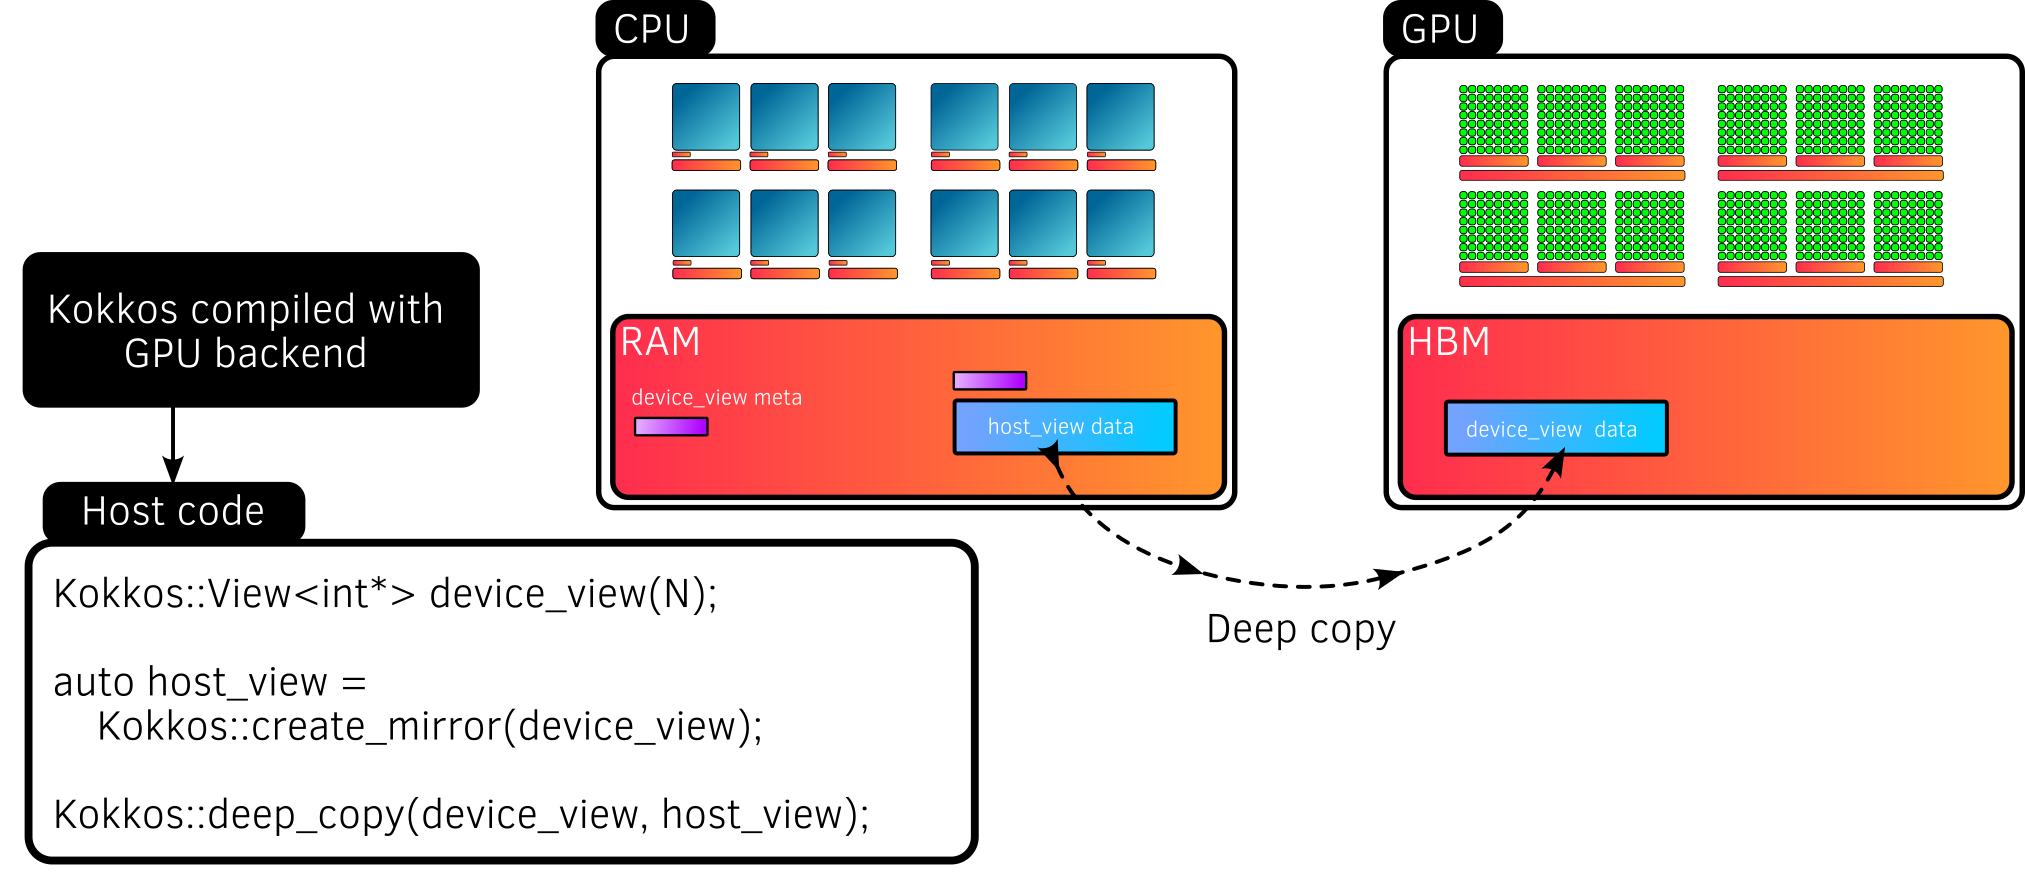
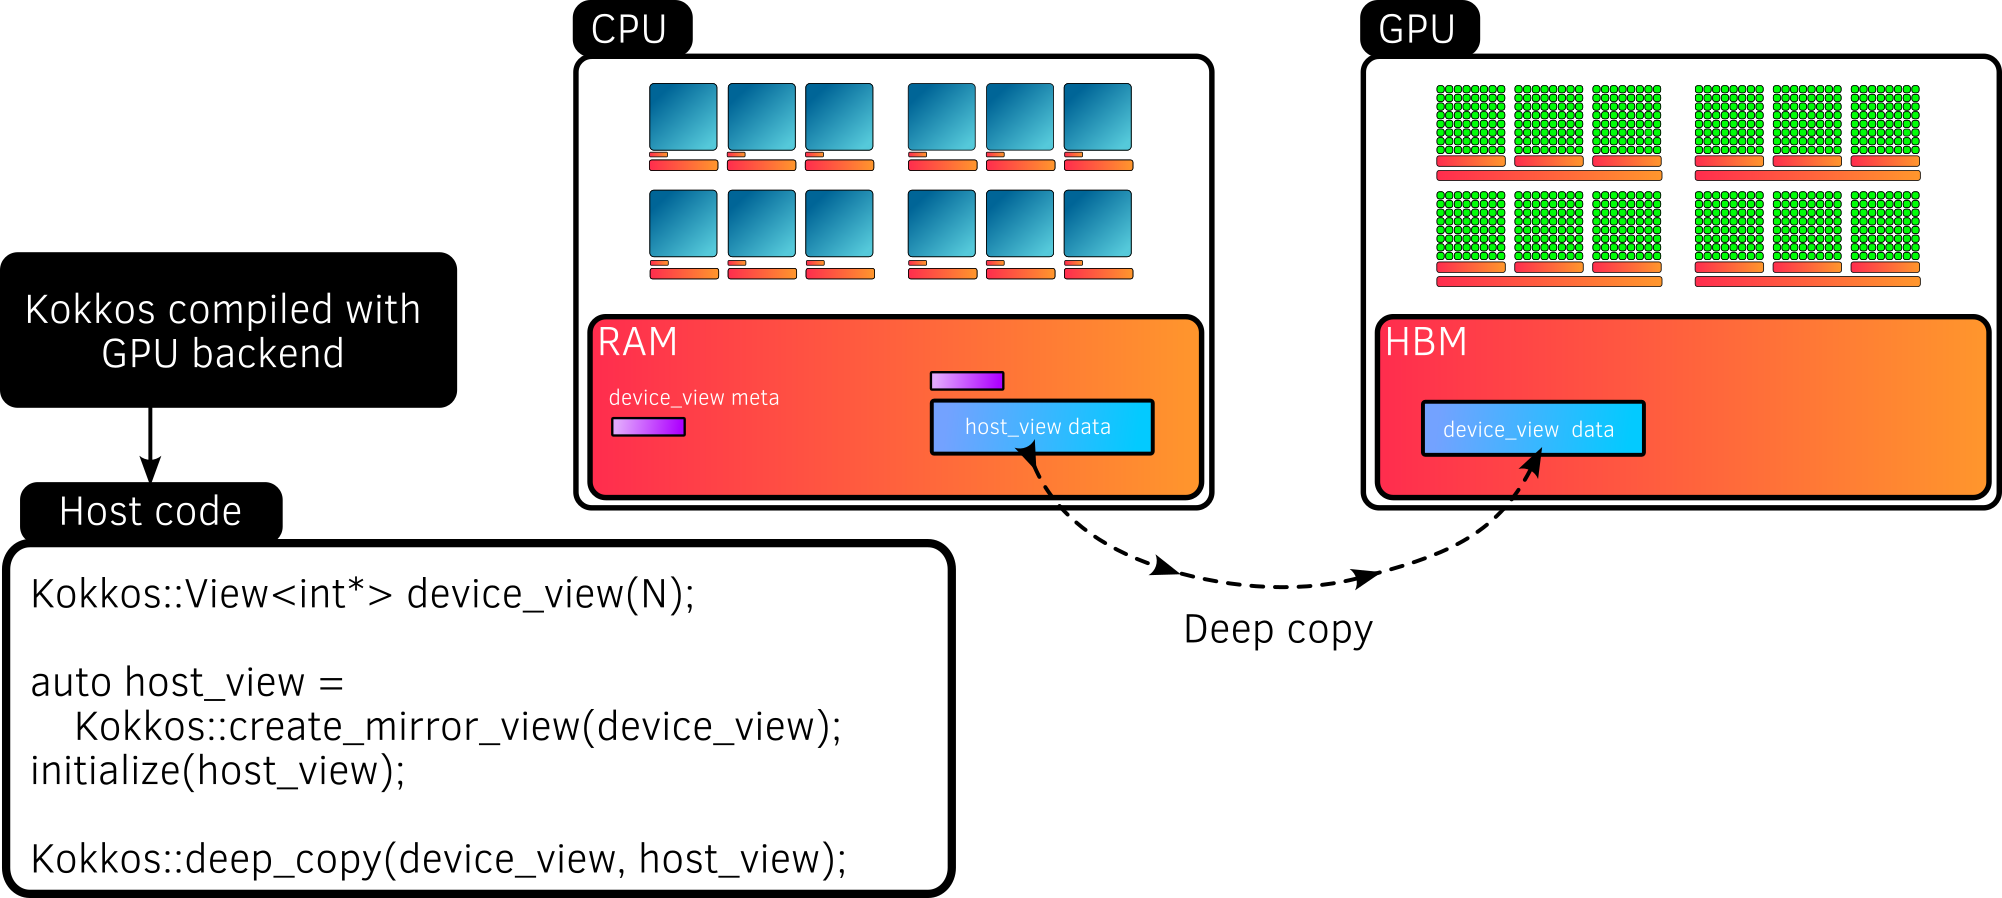
Typo + reorder some points

diff --git a/courses/01_beginners/main.tex b/courses/01_beginners/main.tex
@@ -836,8 +836,8 @@
         \item Why is it important to have an abstracted data container?
         \begin{itemize}
             \item No need to allocate or deallocate memory by hand
-            \item Vendor-specific memory allocation is hidden
             \item Unified semantic and portable memory management (CPU and GPU)
+            \item Vendor-specific memory allocation is hidden
             \item Advanced capabilities (abstracted layout, subarray, multidimensionality, etc.)
             \item Safety, through runtime or compile time checks
         \end{itemize}
@@ -863,6 +863,9 @@
 
                 Kokkos::View<double*[10]>
                     view3("static and dynamic size", 10);
+
+                Kokkos::View<double***[10]>
+                    view4("four dimensions", 10, 10, 10);
             \end{minted}
         \end{column}
         \begin{column}{0.4\linewidth}
@@ -882,7 +885,7 @@
 
 % _____________________________________________________________________________
 
-\begin{frame}[fragile]{Creating a View}
+\begin{frame}[fragile]{Creating a View (2)}
     \begin{columns}
         \begin{column}{0.6\linewidth}
             \begin{minted}{C++}
@@ -894,11 +897,14 @@
 
                 Kokkos::View<double*[10]>
                     view3("static and dynamic size", 10);
+
+                Kokkos::View<double***[10]>
+                    view4("four dimensions", 10, 10, 10);
             \end{minted}
         \end{column}
         \begin{column}{0.4\linewidth}
             \begin{itemize}
-                \item Name (usefull for debugging!)
+                \item Name (useful for debugging!)
                 \item Check at compile time and runtime (out of bound, same size for operations, ...)
             \end{itemize}
         \end{column}
@@ -935,53 +941,7 @@
 
 % _____________________________________________________________________________
 
-\begin{frame}{Where does the data live?}
-    \begin{center}
-        \includegraphics[width=0.65\textwidth]{view_memory.png}
-    \end{center}
-    \begin{itemize}
-        \item A View data lives only in a specific memory space (Host or Device), not both
-        \item Suppose we created a view on the Host
-    \end{itemize}
-\end{frame}
-
-% _____________________________________________________________________________
-
-\begin{frame}{Where does the data live? CPU version}
-    \begin{center}
-        \includegraphics[width=0.65\textwidth]{host_view_memory.png}
-    \end{center}
-    \begin{itemize}
-        \item If Kokkos is compiled with a \highlight{CPU backend only}, the View data is allocated in the \highlight{Host memory} by default
-        \item Host view data usually \highlight{cannot} be accessed on the Device
-    \end{itemize}
-\end{frame}
-
-% _____________________________________________________________________________
-
-\begin{frame}{Where does the data live? GPU version}
-    \begin{center}
-        \includegraphics[width=0.65\textwidth]{device_view_memory.png}
-    \end{center}
-    \begin{itemize}
-        \item If Kokkos is compiled with a \highlight{GPU backend}, the View data is allocated in the \highlight{Device memory} by default
-        \item Device view data usually \highlight{cannot} be accessed on the Host (we'll see later how to transfer data)
-    \end{itemize}
-\end{frame}
-
-% _____________________________________________________________________________
-
-\begin{frame}{More about views}
-    \begin{itemize}
-        \item Allocations only happen when explicitly specified
-        \item Copy construction and assignment are shallow: you pass Views by value, not by pointer (e.g. C arrays) or by reference
-        \item Reference counting is used for automatic deallocation (like shared pointers)
-    \end{itemize}
-\end{frame}
-
-% _____________________________________________________________________________
-
-\begin{frame}[fragile]{Useful methods to manage views}
+\begin{frame}[fragile]{Basic methods to manage views}
     \begin{columns}
         \begin{column}{0.45\linewidth}
             \begin{minted}{C++}
@@ -1014,39 +974,41 @@
 
 % _____________________________________________________________________________
 
-\begin{frame}{Notion of View layout}
+\begin{frame}{Where are a View data stored?}
     \begin{center}
-        \includegraphics[width=0.8\textwidth]{layout_right_left.png}
+        \includegraphics[width=0.65\textwidth]{view_memory.png}
     \end{center}
     \begin{itemize}
-        \item Layout is the way multidimensional indices map to linear memory
-        \item Kokkos provides an abstraction of the data layout
-        \item The default layout of a View depends on the backend (Host or Device)
-        \item Not covered in this talk
+        \item A View data is allocated only in one specific memory (Host or Device), never both
+        \item Suppose we created a view on the Host
     \end{itemize}
 \end{frame}
 
 % _____________________________________________________________________________
 
-\begin{exerciseframe}{Exercise 2: How to use and manage Kokkos Views}
-    \begin{columns}
-        \begin{column}{0.5\linewidth}
-            \begin{center}
-                \includegraphics[width=0.9\textwidth]{sleeping_otter.png}
-            \end{center}
+\begin{frame}{Where are a View data stored? CPU version}
+    \begin{center}
+        \includegraphics[width=0.65\textwidth]{host_view_memory.png}
+    \end{center}
+    \begin{itemize}
+        \item If Kokkos is compiled with a \highlight{CPU backend only}, the View data is allocated in the \highlight{Host memory} by default
+        \item View comes with metadata (number of dimensions, size, ...) and data
+        \item Host view data usually \highlight{cannot} be accessed from the Device
+    \end{itemize}
+\end{frame}
 
-            Go to the exercise \githublink{\href{https://github.com/CExA-project/cexa-kokkos-tutorials/tree/main/exercises/02_basic_view}{02\_basic\_view}} and follow the instructions
-        \end{column}
-        \begin{column}{0.5\linewidth}
-            \begin{block}{Goal of this exercise}
-                \begin{itemize}
-                    \item Create a View
-                    \item Manage the view to inspect its metadata
-                \end{itemize}
-            \end{block}
-        \end{column}
-    \end{columns}
-\end{exerciseframe}
+% _____________________________________________________________________________
+
+\begin{frame}{Where are a View data stored? GPU version}
+    \begin{center}
+        \includegraphics[width=0.65\textwidth]{device_view_memory.png}
+    \end{center}
+    \begin{itemize}
+        \item If Kokkos is compiled with a \highlight{GPU backend}, the View data is allocated in the \highlight{Device memory} by default
+        \item Metadata are on the Host
+        \item Device view data usually \highlight{cannot} be accessed on the Host (we'll see later how to transfer data)
+    \end{itemize}
+\end{frame}
 
 % _____________________________________________________________________________
 
@@ -1055,7 +1017,7 @@
         \includegraphics[width=0.7\linewidth]{memory_space.png}
     \end{center}
     \begin{itemize}
-        \item Kokkos abstraction for where the data lives: \highlight{memory space}
+        \item Kokkos abstraction for where the data are allocated: \highlight{memory space}
         \item A View is always associated with a defined memory space (Host or Device) at compile time
         \item By default, view data is allocated
         \begin{itemize}
@@ -1096,7 +1058,6 @@
         \item Layout is the way multidimensional indices map to linear memory
         \item Kokkos provides an abstraction of the data layout
         \item The default layout of a View depends on the backend (Host or Device)
-        \item Not covered in this talk
     \end{itemize}
 \end{frame}
 
@@ -1114,6 +1075,7 @@
         \begin{column}{0.5\linewidth}
             \begin{itemize}
                 \item Template argument \texttt{Layout} to specify the layout when creating a view
+                \item If you specify a Layout, you must also specify a memory space
                 \item Several ones available (Left, Right, Block, ...)
                 \item Possible to define your own custom layout
                 \item Default values are usually sufficient for basic usages
@@ -1121,6 +1083,38 @@
         \end{column}
     \end{columns}
 \end{frame}
+
+% _____________________________________________________________________________
+
+\begin{frame}{More about views}
+    \begin{itemize}
+        \item Allocations only happen when explicitly specified
+        \item Reference counting is used for automatic deallocation (like shared pointers)
+        \item Copy construction and assignment are shallow: you pass Views by value, not by pointer (e.g. C arrays) or by reference
+    \end{itemize}
+\end{frame}
+
+% _____________________________________________________________________________
+
+\begin{exerciseframe}{Exercise 2: How to use and manage Kokkos Views}
+    \begin{columns}
+        \begin{column}{0.5\linewidth}
+            \begin{center}
+                \includegraphics[width=0.9\textwidth]{sleeping_otter.png}
+            \end{center}
+
+            Go to the exercise \githublink{\href{https://github.com/CExA-project/cexa-kokkos-tutorials/tree/main/exercises/02_basic_view}{02\_basic\_view}} and follow the instructions
+        \end{column}
+        \begin{column}{0.5\linewidth}
+            \begin{block}{Goal of this exercise}
+                \begin{itemize}
+                    \item Create a View
+                    \item Manage the view to inspect its metadata
+                \end{itemize}
+            \end{block}
+        \end{column}
+    \end{columns}
+\end{exerciseframe}
 
 % _____________________________________________________________________________
 
@@ -1152,7 +1146,7 @@
                 \item Created with \texttt{create\_mirror}
                 \item Similar to its original view (shape, layout, etc.)
                 \item Used to create a mirror of a device view on the host
-                \item \texttt{create\_mirror} allocates the memory but it doesn't copy the data!
+                \item \texttt{create\_mirror} allocates the memory but it \highlight{doesn't copy the data}!
             \end{itemize}
         \end{column}
     \end{columns}
@@ -1176,7 +1170,7 @@
     \end{center}
     \begin{itemize}
         \item For portability reason, we always use a mirror view whether we compile with a CPU or GPU backend
-        \item With a CPU backend only, the mirror view lives in the same memory space as the original view
+        \item With a CPU backend only, the mirror view is allocated in the same memory space as the original view
     \end{itemize}
 
     \structure{Problem:} Memory is duplicated unnecessarily!
@@ -1199,7 +1193,7 @@
         \end{column}
         \begin{column}{0.475\linewidth}
             \begin{itemize}
-                \item \texttt{create\_mirror\_view} creates a mirror without allocating memory if the mirror view lives in the same memory space as the original view
+                \item \texttt{create\_mirror\_view} creates a mirror without allocating memory if the mirror view is allocated in the same memory space as the original view
                 \item In that case, the mirror view is a shallow copy of the original view (i.e. it targets the same data)
             \end{itemize}
         \end{column}
@@ -1231,36 +1225,34 @@
             \texttt{Kokkos::create\_mirror\_view} & No allocate & Allocate \\
         \end{tblr}
     \end{center}
-
-    \structure{Problem:} How to transfer data, now?
 \end{frame}
 
 % _____________________________________________________________________________
 
-\begin{frame}[fragile]{Deep copy data between memory spaces}
-    \begin{columns}
-        \begin{column}{0.6\linewidth}
+\begin{frame}[fragile]{Deep copy data between memory space}
+    \begin{columns} %
+        \begin{column}{0.61\linewidth}
             \begin{minted}{C++}
                 Kokkos::View<int**>
-                    device_matrix("matrix", Nx, Ny);
+                    device_view("view", Nx, Ny);
 
-                auto host_matrix =
-                    Kokkos::create_mirror(device_matrix);
+                auto host_view =
+                    Kokkos::create_miror_view(device_view);
 
-                initialize(host_matrix);
+                initialize(host_view);
 
                 // from Host to Device
                 Kokkos::deep_copy(
-                    device_matrix,
-                    host_matrix
+                    device_view,
+                    host_view
                 );
             \end{minted}
         \end{column}
         \begin{column}{0.4\linewidth}
             \begin{itemize}
-                \item \texttt{deep\_copy} to copy data between views in different memory spaces
-                \item Views must be similar (shape, layout, etc.)
-                \item If the destination view is a shallow copy of the source view (e.g. \texttt{create\_mirror\_view} on Host), the function does nothing (portability)
+                \item \texttt{deep\_copy(dst, src)} copy src to dst, even if the data are in different memory spaces
+                \item Views must be similar (same shape, layout, etc.)
+                \item If \texttt{deep\_copy} detects that the destination view is a shallow copy of the source view (created by create\_mirror\_view for instance), it does nothing
             \end{itemize}
         \end{column}
     \end{columns}
@@ -1273,7 +1265,7 @@
         \includegraphics[width=0.9\textwidth]{host_device_deep_copy.png}
     \end{center}
 
-    \structure{Solution:} With \texttt{deep\_copy}!
+    \structure{Solution:} With \texttt{create\_mirror\_view} and \texttt{deep\_copy}!
 \end{frame}
 
 % _____________________________________________________________________________
